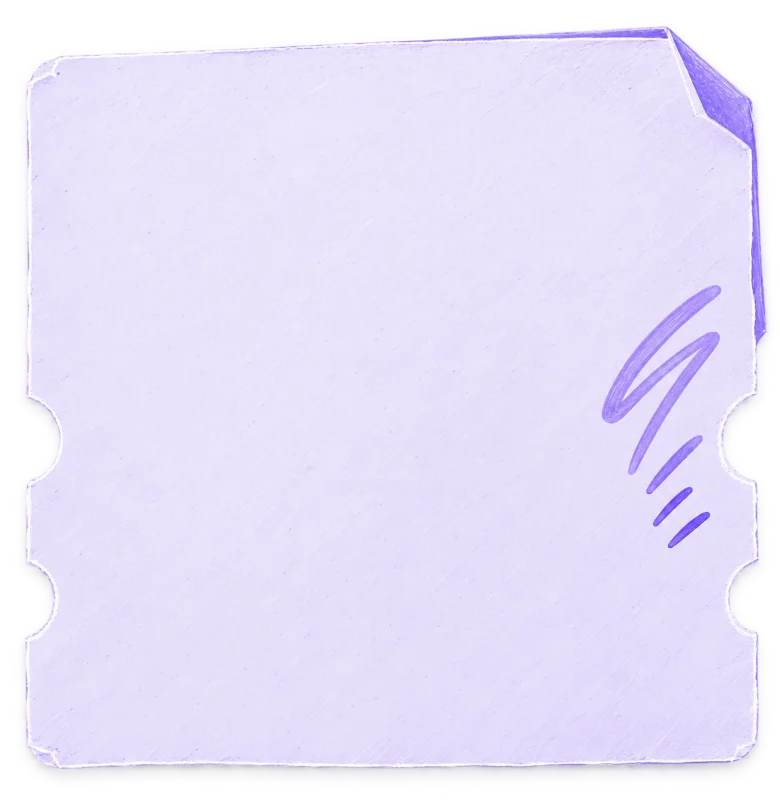
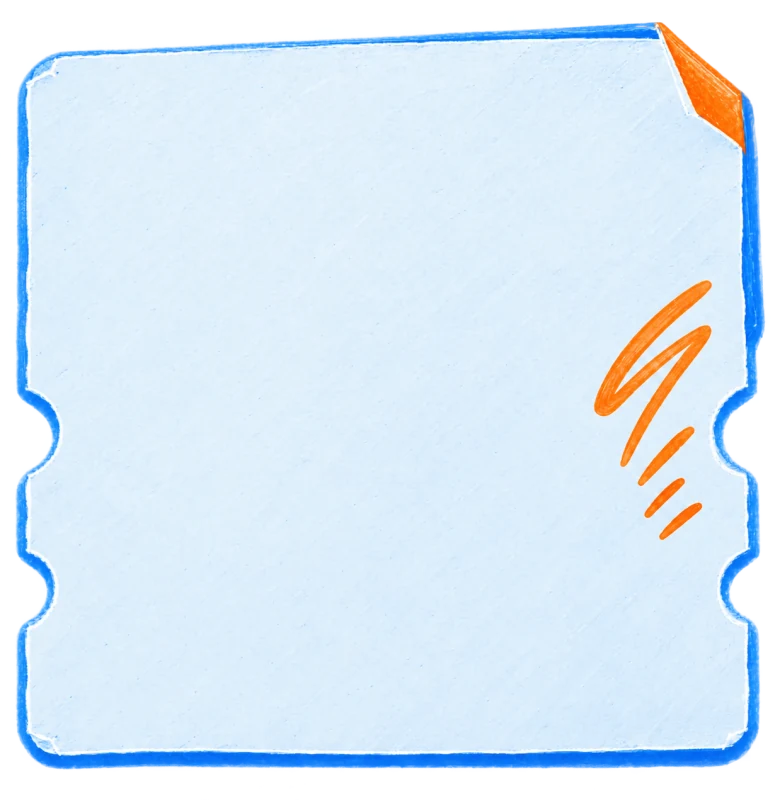
feat: apply approved blue orange penalty studio and center actions

Changed region(s): [[0.0, 0.0312, 0.9846, 0.9688]]

diff --git a/frontend/src/styles/PenaltyStudio.css b/frontend/src/styles/PenaltyStudio.css
@@ -9,13 +9,13 @@
 .penalty-miniapp {
   --pm-bg: #faf7f1;
   --pm-surface: #fffcf7;
-  --pm-text: #1e142d;
-  --pm-muted: #665d73;
-  --pm-blue: #5830d6;
-  --pm-link: #5325d0;
+  --pm-text: #111c37;
+  --pm-muted: #5d6680;
+  --pm-blue: #195bea;
+  --pm-link: #195bea;
   --pm-button-text: #fff;
-  --pm-selected: #e9ddfc;
-  --pm-line: #ded5e6;
+  --pm-selected: #e4edff;
+  --pm-line: #d9e1ed;
   --pm-dock-bottom: 0px;
   --pm-dock-clearance: calc(90px + max(8px, env(safe-area-inset-bottom), var(--tg-content-safe-area-inset-bottom, 0px)));
   padding: max(24px, env(safe-area-inset-top), var(--tg-content-safe-area-inset-top, 0px)) max(20px, env(safe-area-inset-right)) var(--pm-dock-clearance) max(20px, env(safe-area-inset-left));
@@ -31,44 +31,46 @@
 .penalty-miniapp .pm-select-wrap { justify-content: flex-start; gap: 10px; background: var(--pm-selected); border-radius: 30px; padding: 0 16px; min-height: 48px; color: var(--pm-text); }
 .penalty-miniapp .pm-select-wrap select { max-width: none; text-align: left; height: 48px; color: var(--pm-text); font-size: 18px; font-weight: 650; }
 .penalty-miniapp .pm-select-wrap option { background: var(--pm-surface); color: var(--pm-text); }
-.penalty-miniapp .pm-task-paper { order: 1; margin-top: 20px; padding: 18px 19px 10px; border: 12px solid transparent; border-image: url('../assets/penalty-ticket.webp') 80 fill / 24px / 9px stretch; min-width: 0; color: #1e142d; }
-.penalty-miniapp .pm-task-modes { display: grid; grid-template-columns: 1fr 1.13fr; gap: 0; margin: 0 0 20px; border-radius: 28px; background: #f6f0ff; }
-.penalty-miniapp .pm-task-modes button { min-height: 44px; padding: 8px 7px; border-radius: 26px; border: 0; font-size: 13px; gap: 6px; background: none; color: #564569; }
-.penalty-miniapp .pm-task-modes button[aria-pressed='true'] { background: #5830d6; color: #fff; border: 0; }
-.penalty-miniapp .pm-section-label { margin: 0 0 8px; font-size: 11px; letter-spacing: 2px; text-transform: uppercase; color: #594b6e; }
+.penalty-miniapp .pm-task-paper { order: 1; margin-top: 20px; padding: 18px 19px 10px; border: 12px solid transparent; border-image: url('../assets/penalty-ticket.webp') 80 fill / 24px / 9px stretch; min-width: 0; color: #111c37; }
+.penalty-miniapp .pm-task-modes { display: grid; grid-template-columns: 1fr 1.13fr; gap: 0; margin: 0 0 20px; border-radius: 28px; background: #f4f8ff; }
+.penalty-miniapp .pm-task-modes button { min-height: 44px; padding: 8px 7px; border-radius: 26px; border: 0; font-size: 13px; gap: 6px; background: none; color: #4d5d78; }
+.penalty-miniapp .pm-task-modes button[aria-pressed='true'] { background: #195bea; color: #fff; border: 0; }
+.penalty-miniapp .pm-section-label { margin: 0 0 8px; font-size: 11px; letter-spacing: 2px; text-transform: uppercase; color: #4e5c76; }
 .penalty-miniapp .pm-reel { border: 0; border-radius: 0; padding: 0; background: transparent; }
 .penalty-miniapp .pm-reel-neighbor { display: none; }
-.penalty-miniapp .pm-reel-selected { display: block; padding: 0; background: none; border: 0; color: #1e142d; }
+.penalty-miniapp .pm-reel-selected { display: block; padding: 0; background: none; border: 0; color: #111c37; }
 .penalty-miniapp .pm-reel-title { white-space: normal; overflow: visible; }
 .penalty-miniapp .pm-task-title { display: block; max-width: 245px; font-size: clamp(30px, 10.2vw, 44px); font-weight: 800; line-height: 1.08; letter-spacing: -1.3px; overflow-wrap: anywhere; }
-.penalty-miniapp .pm-task-copy { display: block; margin-top: 13px; color: #58496c; font-size: 15px; line-height: 1.45; font-weight: 400; white-space: pre-wrap; }
-.penalty-miniapp .pm-reel-spinning .pm-reel-neighbor { display: flex; padding: 6px 0; font-size: 12px; color: #665477; }
+.penalty-miniapp .pm-task-copy { display: block; margin-top: 13px; color: #4e5c76; font-size: 15px; line-height: 1.45; font-weight: 400; white-space: pre-wrap; }
+.penalty-miniapp .pm-reel-spinning .pm-reel-neighbor { display: flex; padding: 6px 0; font-size: 12px; color: #526380; }
 .penalty-miniapp .pm-reel-spinning .pm-task-title { font-size: 25px; }
-.penalty-miniapp .pm-shuffle { justify-content: flex-start; margin-top: 14px; padding: 11px 0 0; min-height: 44px; width: 100%; border: 0; border-top: 1px dashed #b9a1df; border-radius: 0; color: #5325d0; background: none; font-size: 15px; }
-.penalty-miniapp .pm-shuffle:hover:not(:disabled) { background: none; color: #351397; }
+.penalty-miniapp .pm-shuffle { justify-content: flex-start; margin-top: 14px; padding: 11px 0 0; min-height: 44px; width: 100%; border: 0; border-top: 1px dashed #98b8eb; border-radius: 0; color: #195bea; background: none; font-size: 15px; }
+.penalty-miniapp .pm-shuffle:hover:not(:disabled) { background: none; color: #1043b5; }
 .penalty-miniapp .pm-duration { order: 2; margin: 18px 0 0; padding: 0; border: 0; background: none; gap: 14px; }
-.penalty-miniapp .pm-duration > svg { box-sizing: content-box; padding: 13px; background: var(--pm-selected); border-radius: 50%; color: var(--pm-muted); }
+.penalty-miniapp .pm-duration > svg { box-sizing: content-box; padding: 13px; background: #ffeddc; border-radius: 50%; color: #6e4829; }
 .penalty-miniapp .pm-duration strong { font-size: 26px; letter-spacing: -.6px; font-weight: 800; }
 .penalty-miniapp .pm-duration p { font-size: 13px; }
 .penalty-miniapp .pm-hours-note { order: 2; }
 .penalty-miniapp .pm-actions { order: 3; margin-top: 18px; }
-.penalty-miniapp .pm-primary { min-height: 55px; border-radius: 18px; padding: 13px 15px; font-size: 15px; font-weight: 600; }
-.penalty-miniapp .pm-primary > .lucide-arrow-right { margin-left: auto; }
-.penalty-miniapp .pm-primary:hover:not(:disabled) { background: #4320af; }
+.penalty-miniapp .pm-primary { position: relative; min-height: 55px; border-radius: 18px; padding: 13px 15px; font-size: 15px; font-weight: 600; }
+.penalty-miniapp .pm-button-label { display: inline-flex; align-items: center; justify-content: center; gap: 8px; min-width: 0; max-width: 100%; margin-inline: auto; padding-inline: 20px; }
+.penalty-miniapp .pm-button-label > svg { margin: 0; }
+.penalty-miniapp .pm-primary > .lucide-arrow-right { position: absolute; right: 15px; top: 50%; transform: translateY(-50%); margin: 0; }
+.penalty-miniapp .pm-primary:hover:not(:disabled) { background: #1043b5; }
 .penalty-miniapp .pm-bottom-hint { order: 4; margin: 12px 0 0; font-size: 12px; display: block; }
 .penalty-miniapp .pm-footer { display: none; }
-.penalty-miniapp .pm-custom-task { margin: 0; color: #1e142d; }
-.penalty-miniapp .pm-custom-task textarea { background: #faf6ff; color: #1e142d; border-color: #ad94cf; border-radius: 12px; min-height: 150px; }
-.penalty-miniapp .pm-custom-task small, .penalty-miniapp .pm-task-description span { color: #59496d; }
-.penalty-miniapp .pm-task-paper :is(button, textarea):focus-visible { outline: 3px solid #5325d0; outline-offset: 3px; }
+.penalty-miniapp .pm-custom-task { margin: 0; color: #111c37; }
+.penalty-miniapp .pm-custom-task textarea { background: #f5f9ff; color: #111c37; border-color: #8cafe6; border-radius: 12px; min-height: 150px; }
+.penalty-miniapp .pm-custom-task small, .penalty-miniapp .pm-task-description span { color: #4e5c76; }
+.penalty-miniapp .pm-task-paper :is(button, textarea):focus-visible { outline: 3px solid #195bea; outline-offset: 3px; }
 .penalty-miniapp .pm-bottom-nav { max-width: 470px; width: 100%; border-radius: 0; border-top: 1px solid var(--pm-line); padding: 8px 14px max(8px, env(safe-area-inset-bottom), var(--tg-content-safe-area-inset-bottom, 0px)); box-shadow: none; background: var(--pm-bg); backdrop-filter: none; -webkit-backdrop-filter: none; }
 .penalty-miniapp .pm-bottom-nav a { border-radius: 0; font-size: 10px; min-height: 54px; border-bottom: 2px solid transparent; }
 .penalty-miniapp .pm-bottom-nav a[aria-current='page'] { background: none; border-color: var(--pm-link); }
 .penalty-miniapp .pm-working-list, .penalty-miniapp .pm-state, .penalty-miniapp .pm-history, .penalty-miniapp .pm-dialog { border-radius: 16px; }
 .penalty-miniapp.pm-working-view .pm-header { min-height: auto; padding: 10px 0 20px; }
 .penalty-miniapp.pm-working-view .pm-header h1 { width: 100%; font-family: inherit; font-size: 30px; line-height: 1.1; letter-spacing: -1px; }
-[data-theme='dark'] .penalty-miniapp { --pm-bg: #191420; --pm-surface: #241c2e; --pm-text: #fbf6ff; --pm-muted: #c5b6d3; --pm-link: #c7a6ff; --pm-selected: #39254f; --pm-line: #493754; }
-[data-theme='dark'] .penalty-miniapp .pm-select-wrap { color: #fbf6ff; }
+[data-theme='dark'] .penalty-miniapp { --pm-bg: #101927; --pm-surface: #17263b; --pm-text: #f6f8ff; --pm-muted: #b8c7dd; --pm-link: #8eb9ff; --pm-selected: #213a62; --pm-line: #334d74; }
+[data-theme='dark'] .penalty-miniapp .pm-select-wrap { color: #f6f8ff; }
 @media (min-width: 700px) { .penalty-miniapp { padding-top: 35px; } }
 @media (max-width: 360px) {
   .penalty-miniapp { padding-inline: 16px; }
@@ -76,4 +78,6 @@
   .penalty-miniapp .pm-header img { height: 120px; }
   .penalty-miniapp .pm-task-paper { padding: 18px 8px 10px; }
   .penalty-miniapp .pm-task-modes button { font-size: 12px; }
+  .penalty-miniapp .pm-button-label { padding-inline: 0; }
+  .penalty-miniapp .pm-primary > .lucide-arrow-right { display: none; }
 }

diff --git a/frontend/src/pages/PenaltyMiniApp.jsx b/frontend/src/pages/PenaltyMiniApp.jsx
@@ -300,7 +300,7 @@ export default function PenaltyMiniApp({ renderPlatform }) {
     <main className={`penalty-miniapp${session && view === 'issue' ? ' pm-running' : ''}${view === 'working' ? ' pm-working-view' : ''}`}>
       <div className="pm-content">
         <header className="pm-header">
-          {view !== 'working' ? <><h1>Выдаватель <span>пенальти</span></h1><img src="/penalty-miniapp-hero.webp" alt="Два нарисованных персонажа: бородатый в фиолетовой футболке и улыбающийся" width="350" height="250" /></>
+          {view !== 'working' ? <><h1>Выдаватель <span>пенальти</span></h1><img src="/penalty-miniapp-hero-blue.webp" alt="Два нарисованных персонажа: бородатый в синей футболке и улыбающийся" width="350" height="250" /></>
             : <h1>Отрабатывают сейчас</h1>}
         </header>
         {phase === 'loading' && <p className="pm-state" role="status">Подключаемся к платформе…</p>}
@@ -356,10 +356,10 @@ export default function PenaltyMiniApp({ renderPlatform }) {
               </div>
               <div className="pm-actions">
                 {!session && <>
-                  <button type="button" className="pm-primary" disabled={!canStart || (taskMode === 'custom' ? customText.trim().length < 3 : !draft) || Boolean(busy)} onClick={() => runAction('commit')}><Check size={23} />{busy === 'commit' ? 'Фиксируем…' : 'Зафиксировать пенальти'}<ArrowRight size={23} aria-hidden="true" /></button>
+                  <button type="button" className="pm-primary" disabled={!canStart || (taskMode === 'custom' ? customText.trim().length < 3 : !draft) || Boolean(busy)} onClick={() => runAction('commit')}><span className="pm-button-label"><Check size={23} aria-hidden="true" /><span>{busy === 'commit' ? 'Фиксируем…' : 'Зафиксировать пенальти'}</span></span><ArrowRight size={23} aria-hidden="true" /></button>
                 </>}
                 {session && remaining > 0 && activeTask && <>
-                  <button type="button" className="pm-primary" disabled={Boolean(busy)} onClick={() => runAction('complete')}><Check size={22} />{busy === 'complete' ? 'Выдаём следующее…' : 'Выполнено — следующее'}</button>
+                  <button type="button" className="pm-primary" disabled={Boolean(busy)} onClick={() => runAction('complete')}><span className="pm-button-label"><Check size={22} aria-hidden="true" /><span>{busy === 'complete' ? 'Выдаём следующее…' : 'Выполнено — следующее'}</span></span></button>
                 </>}
                 {session && remaining === 0 && <button ref={finishTriggerRef} type="button" className="pm-primary" disabled={Boolean(busy)} onClick={() => setConfirmFinish(true)}><Check size={22} />Подтвердить 2 часа отработки</button>}
               </div>

diff --git a/frontend/e2e/penalty-studio.spec.js b/frontend/e2e/penalty-studio.spec.js
@@ -35,6 +35,14 @@ for (const theme of ['light', 'dark']) {
       await expect(page.locator('.pm-task-title')).toHaveText(task.title);
       await expect(page.locator('.pm-task-copy')).toHaveText(task.description);
       await expect(page.locator('.pm-header')).not.toContainText(/school\s*21/i);
+      await expect(commit).toHaveCSS('background-color', 'rgb(25, 91, 234)');
+      const centered = async (button) => {
+        const box = await button.boundingBox();
+        const label = await button.locator('.pm-button-label').boundingBox();
+        expect(Math.abs((box.x + box.width / 2) - (label.x + label.width / 2))).toBeLessThan(1);
+        expect(Math.abs((box.y + box.height / 2) - (label.y + label.height / 2))).toBeLessThan(1);
+      };
+      await centered(commit);
       expect(commits).toBe(0);
       expect(await page.evaluate(() => document.documentElement.scrollWidth <= innerWidth)).toBe(true);
       await page.evaluate(() => document.fonts.ready);
@@ -43,6 +51,7 @@ for (const theme of ['light', 'dark']) {
       await expect(page.getByText('Смена задания не обнуляет таймер')).toBeVisible();
       expect(commits).toBe(1);
       await expect(page.getByRole('button', { name: 'Выполнено — следующее' })).toBeEnabled();
+      await centered(page.getByRole('button', { name: 'Выполнено — следующее' }));
       await page.getByRole('link', { name: /Отрабатывают сейчас/ }).click();
       await expect(page.getByRole('heading', { name: 'Отрабатывают сейчас' })).toBeVisible();
     });

diff --git a/frontend/src/pages/PenaltyMiniApp.test.jsx b/frontend/src/pages/PenaltyMiniApp.test.jsx
@@ -66,7 +66,7 @@ test('preview does not commit and controls have distinct names', async () => {
   expect(call.mock.calls.some(([path = '']) => path.endsWith('/commit'))).toBe(false);
 });
 
-test('the lilac studio keeps the task title and full instructions, without a school wordmark', async () => {
+test('the studio keeps the task title and full instructions, without a school wordmark', async () => {
   const { container } = render(<PenaltyMiniApp />);
   await preview();
   expect(container.querySelector('.pm-header')).not.toHaveTextContent(/school\s*21/i);

diff --git a/design-qa.md b/design-qa.md
@@ -1,3 +1,58 @@
+# Penalty Mini App — blue/orange revision QA, 2026-10-18
+
+final result: passed
+
+## Approved revision
+
+Owner approved the single blue/orange revision after choosing the paper-ticket
+composition. Current source visual truth:
+`/Users/denissadykov/.codex/generated_images/01a01870-c8de-7fc3-ad92-f26e9ef45cef/exec-ec166974-e626-475e-8e16-316751993f42.png`.
+853 × 1844 pixels normalized to 390 × 844 CSS pixels; no device chrome.
+IAB implementation: `/tmp/penalty-studio-blue-390.png`, 390 × 844, density 1.
+Combined input, opened and inspected:
+`/tmp/penalty-studio-blue-comparison.png` (source left, implementation right).
+Same synthetic pupil/task, preview not committed. Active-state evidence:
+`/tmp/penalty-studio-blue-active-390.png`.
+
+### Required fidelity surfaces
+
+- Fonts/typography: same local Cyrillic-capable Oswald display face and readable
+  body text; complete title/instructions wrap. Exact generated task-font weight
+  remains a P3 optical refinement, not a clipped/hidden text issue.
+- Spacing/layout: approved composition retained. Primary contents are one centered
+  icon/label group, trailing arrow independently positioned. At 320px the redundant
+  arrow hides rather than squeezing the text. IAB measured active-group horizontal
+  and vertical center differences: 0px / 0px. Automated checks require <1px for
+  both pending and active actions at 320/390px in both themes.
+- Colors/tokens: royal blue #195bea, icy blue paper, orange fold/pencil details,
+  peach clock surround, navy ink. Dark theme uses a navy canvas and readable
+  controls; ticket text stays dark on the pale paper. No purple UI accent remains.
+- Imagery: independently generated alpha WebP ticket 780 × 800 (91,768 bytes)
+  and faithfully recolored character art 1484 × 1060 (257,778 bytes). Existing
+  faces, poses and pencil treatment preserved. The first character draft had a
+  rectangular halo (P2); a targeted generation from the original removed it.
+  Final WebP inspected on black and in the actual app. Original purple character
+  file preserved, new code uses the new blue filename. No CSS/SVG fake artwork.
+- Copy/content: no SCHOOL21 wordmark; all action labels and two-hour-stage rules
+  retained. No new business functions, records, migrations, or messages.
+
+### Comparison history / checks
+
+1. Owner reported an off-center active action. New explicit label wrapper makes
+   the icon and text one unit independent of direct-child SVG margin rules.
+2. Character halo P2 fixed before final build; post-fix asset and IAB capture
+   reviewed. Blue/orange full-view comparison has no actionable P0/P1/P2 drift.
+   Important text/controls are readable at 390px in the combined input, so an
+   additional focused crop was unnecessary.
+3. IAB: preview, explicit commit and active timer; browser console: zero warnings
+   or errors. Isolated fixtures only. E2e also checks working-list navigation.
+
+Backend 404 passed (29.27s); frontend 192 passed; production build passed;
+infra 55 passed; mandatory full e2e 26 passed (11.1s), unchanged retries/workers/
+timeouts. Tests cover both themes and 320/390px; no production data was touched.
+
+## Historical reports (superseded colors)
+
 # Penalty Mini App — lilac studio QA, 2026-10-18
 
 final result: passed
